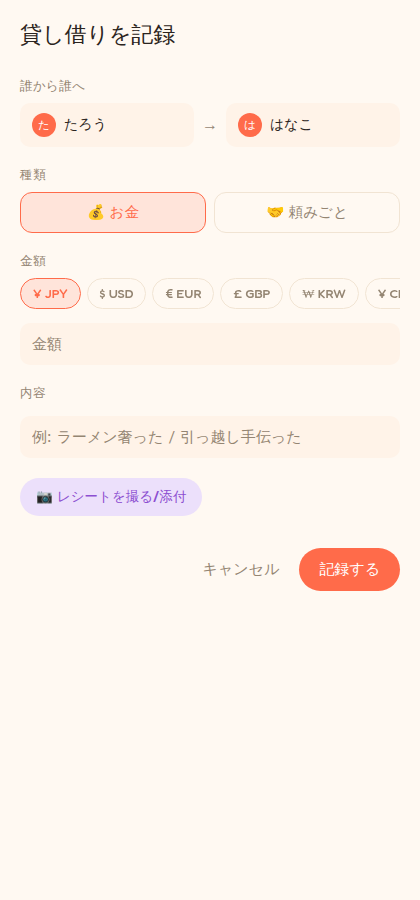
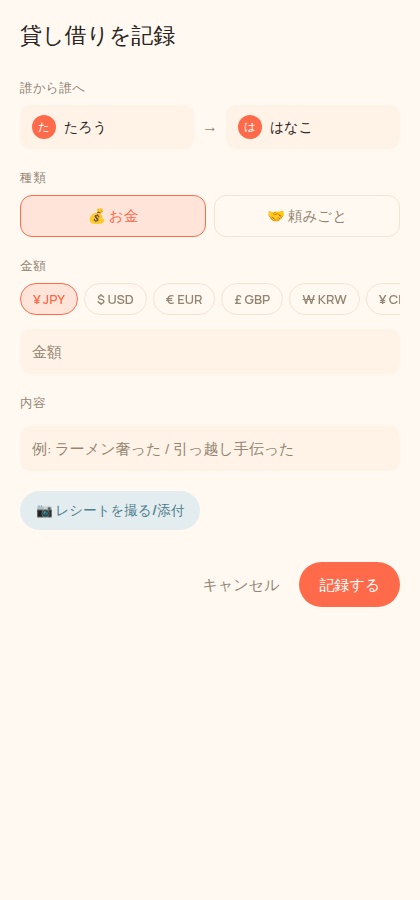
kashikari mobile: フォントを1系統に統一し、配色を整理
「フォントを変えて、色がごちゃごちゃしている」という指摘への対応。

- 書体をFredoka(見出し)+Work Sans(本文)の2系統からManrope1系統に統一
- 配色をコーラル(主アクセント/お金)+スレートティール(副アクセント/
  頼みごと)の2色に整理。以前は取引種別で赤orange/紫、残高で赤/紫、
  アバターで8色の原色寄りパレットと、色が乱立していた
- アバターパレットも8色→彩度を抑えた4色に削減
- 台帳カードの色付き左枠線を撤去し、通常時は中立なグレー枠+アイコン
  バッジのみで種別を表現。精算済みは破線に変えるだけのシンプルな表現に
- フォームのエラー表示だけは意味を持つ色として danger トークンを残した
- デモモードで再度起動・スクリーンショットを撮り直して確認済み
  (docs/screenshots/ を更新)

diff --git a/personal-side-projects/kashikari/mobile/src/theme.ts b/personal-side-projects/kashikari/mobile/src/theme.ts
@@ -1,5 +1,10 @@
 // デザイントークン。personal-side-projects/kashikari/app/index.html(Web版プロトタイプ)の
 // 配色・書体をそのまま踏襲している。両方を直す場合は同じ値をこちらにも反映すること。
+//
+// 2回目の見直し(2024): 「色がごちゃごちゃ」という指摘を受け、書体をFredoka+
+// Work Sansの2系統からManrope1系統に統一。配色もアクセント(コーラル)+
+// セカンダリ(スレートティール)の2色に絞り、アバターも8色の原色寄りな
+// パレットから、彩度を抑えた4色に削減した。
 
 export const colors = {
   bg: '#fff9f2',
@@ -8,35 +13,29 @@ export const colors = {
   ink: '#2b2420',
   muted: '#948572',
   line: '#f1e4d3',
+  // 主アクセント(CTA・お金の記録・「あなた」のハイライト)
   accent: '#ff6b4a',
   accentInk: '#ffffff',
   accentSoft: '#ffe4da',
-  favor: '#8c4fd1',
-  favorSoft: '#ece0fb',
-  owe: '#ff5470',
-  oweSoft: '#ffe1e6',
-  owed: '#1fa37a',
-  owedSoft: '#d9f3ea',
+  // 副アクセント(頼みごとの記録)。彩度を落として主アクセントと喧嘩しないようにする
+  favor: '#4f7d8c',
+  favorSoft: '#e3edef',
+  // フォームのバリデーションエラー表示専用(装飾ではなく意味を持つ色なので、
+  // アクセント2色とは別に最小限だけ用意する)
+  danger: '#c14a3a',
 } as const;
 
 export const fonts = {
-  display: 'Fredoka_600SemiBold',
-  displayMedium: 'Fredoka_500Medium',
-  body: 'WorkSans_400Regular',
-  bodyMedium: 'WorkSans_500Medium',
-  bodySemiBold: 'WorkSans_600SemiBold',
+  display: 'Manrope_700Bold',
+  displayMedium: 'Manrope_600SemiBold',
+  body: 'Manrope_400Regular',
+  bodyMedium: 'Manrope_500Medium',
+  bodySemiBold: 'Manrope_600SemiBold',
 } as const;
 
-export const AVATAR_PALETTE = [
-  '#ff6b4a',
-  '#1fa37a',
-  '#2d3a8c',
-  '#e0a73c',
-  '#8c4fd1',
-  '#2aa7c4',
-  '#4b8b3b',
-  '#e0527a',
-];
+// 彩度・明度を揃えた4色のみ(主アクセントの色相違いバリエーション)。
+// 誰が誰でも「同じ家族の色」に見えるようにし、原色が乱立する印象を避ける。
+export const AVATAR_PALETTE = ['#ff6b4a', '#4f7d8c', '#d99a3d', '#9c6b8c'];
 
 export function avatarColor(name: string): string {
   let hash = 0;

diff --git a/personal-side-projects/kashikari/mobile/App.tsx b/personal-side-projects/kashikari/mobile/App.tsx
@@ -1,8 +1,13 @@
 import { useState } from 'react';
 import { ActivityIndicator, StyleSheet, View } from 'react-native';
 import { StatusBar } from 'expo-status-bar';
-import { useFonts as useFredoka, Fredoka_500Medium, Fredoka_600SemiBold } from '@expo-google-fonts/fredoka';
-import { useFonts as useWorkSans, WorkSans_400Regular, WorkSans_500Medium, WorkSans_600SemiBold } from '@expo-google-fonts/work-sans';
+import {
+  useFonts as useManrope,
+  Manrope_400Regular,
+  Manrope_500Medium,
+  Manrope_600SemiBold,
+  Manrope_700Bold,
+} from '@expo-google-fonts/manrope';
 
 import DemoApp from './src/demo/DemoApp';
 import GroupScreen from './src/screens/GroupScreen';
@@ -20,13 +25,12 @@ type Screen = { name: 'groups' } | { name: 'group'; group: Group };
 const DEMO_MODE = process.env.EXPO_PUBLIC_DEMO_MODE === '1';
 
 export default function App() {
-  const [fredokaLoaded] = useFredoka({ Fredoka_500Medium, Fredoka_600SemiBold });
-  const [workSansLoaded] = useWorkSans({ WorkSans_400Regular, WorkSans_500Medium, WorkSans_600SemiBold });
+  const [manropeLoaded] = useManrope({ Manrope_400Regular, Manrope_500Medium, Manrope_600SemiBold, Manrope_700Bold });
   const { loading: authLoading, userId, profile, setDisplayName } = useAuth();
   const { groups, loading: groupsLoading, refresh, createGroup, joinGroup, leaveGroup } = useGroups(DEMO_MODE ? null : userId);
   const [screen, setScreen] = useState<Screen>({ name: 'groups' });
 
-  if (!fredokaLoaded || !workSansLoaded) {
+  if (!manropeLoaded) {
     return (
       <View style={styles.loading}>
         <ActivityIndicator color={colors.accent} size="large" />

diff --git a/personal-side-projects/kashikari/mobile/src/components/EntryRow.tsx b/personal-side-projects/kashikari/mobile/src/components/EntryRow.tsx
@@ -38,10 +38,8 @@ export default function EntryRow({ entry, nameOf, onToggleSettled, onDelete }: P
     );
   };
 
-  const accent = entry.type === 'money' ? colors.accent : colors.favor;
-
   return (
-    <View style={[styles.row, { borderColor: settled ? colors.line : accent, borderStyle: settled ? 'dashed' : 'solid' }]}>
+    <View style={[styles.row, settled && styles.rowSettled]}>
       <View style={[styles.badge, { backgroundColor: entry.type === 'money' ? colors.accentSoft : colors.favorSoft }]}>
         <Text style={styles.badgeEmoji}>{entry.type === 'money' ? '💰' : '🤝'}</Text>
       </View>
@@ -86,10 +84,11 @@ const styles = StyleSheet.create({
     gap: 10,
     padding: 12,
     borderWidth: 1.5,
-    borderLeftWidth: 4,
+    borderColor: colors.line,
     borderRadius: 12,
     backgroundColor: colors.surface,
   },
+  rowSettled: { borderStyle: 'dashed' },
   badge: { width: 38, height: 38, borderRadius: 12, alignItems: 'center', justifyContent: 'center' },
   badgeEmoji: { fontSize: 17 },
   main: { flex: 1, minWidth: 0 },

diff --git a/personal-side-projects/kashikari/mobile/src/components/BalanceCard.tsx b/personal-side-projects/kashikari/mobile/src/components/BalanceCard.tsx
@@ -31,7 +31,7 @@ export default function BalanceCard({ row, nameOf, meId, onSettle }: Props) {
             {creditorLabel}
           </Text>
         </View>
-        <Text style={[styles.amount, { color: row.type === 'money' ? colors.owe : colors.favor }]} numberOfLines={1}>
+        <Text style={[styles.amount, { color: row.type === 'money' ? colors.accent : colors.favor }]} numberOfLines={1}>
           {amountLabel}
         </Text>
       </View>

diff --git a/personal-side-projects/kashikari/mobile/src/components/GroupFormModal.tsx b/personal-side-projects/kashikari/mobile/src/components/GroupFormModal.tsx
@@ -75,6 +75,6 @@ const styles = StyleSheet.create({
     fontSize: 16,
     color: colors.ink,
   },
-  error: { color: colors.owe, fontFamily: fonts.body, fontSize: 13, marginTop: 8 },
+  error: { color: colors.danger, fontFamily: fonts.body, fontSize: 13, marginTop: 8 },
   actions: { flexDirection: 'row', justifyContent: 'flex-end', gap: 8, marginTop: 18 },
 });

diff --git a/personal-side-projects/kashikari/mobile/src/screens/OnboardingScreen.tsx b/personal-side-projects/kashikari/mobile/src/screens/OnboardingScreen.tsx
@@ -81,6 +81,6 @@ const styles = StyleSheet.create({
     borderWidth: 1.5,
     borderColor: colors.line,
   },
-  error: { color: colors.owe, fontFamily: fonts.body, fontSize: 13, marginTop: 8 },
+  error: { color: colors.danger, fontFamily: fonts.body, fontSize: 13, marginTop: 8 },
   button: { marginTop: 24, alignSelf: 'flex-start', paddingHorizontal: 28 },
 });
